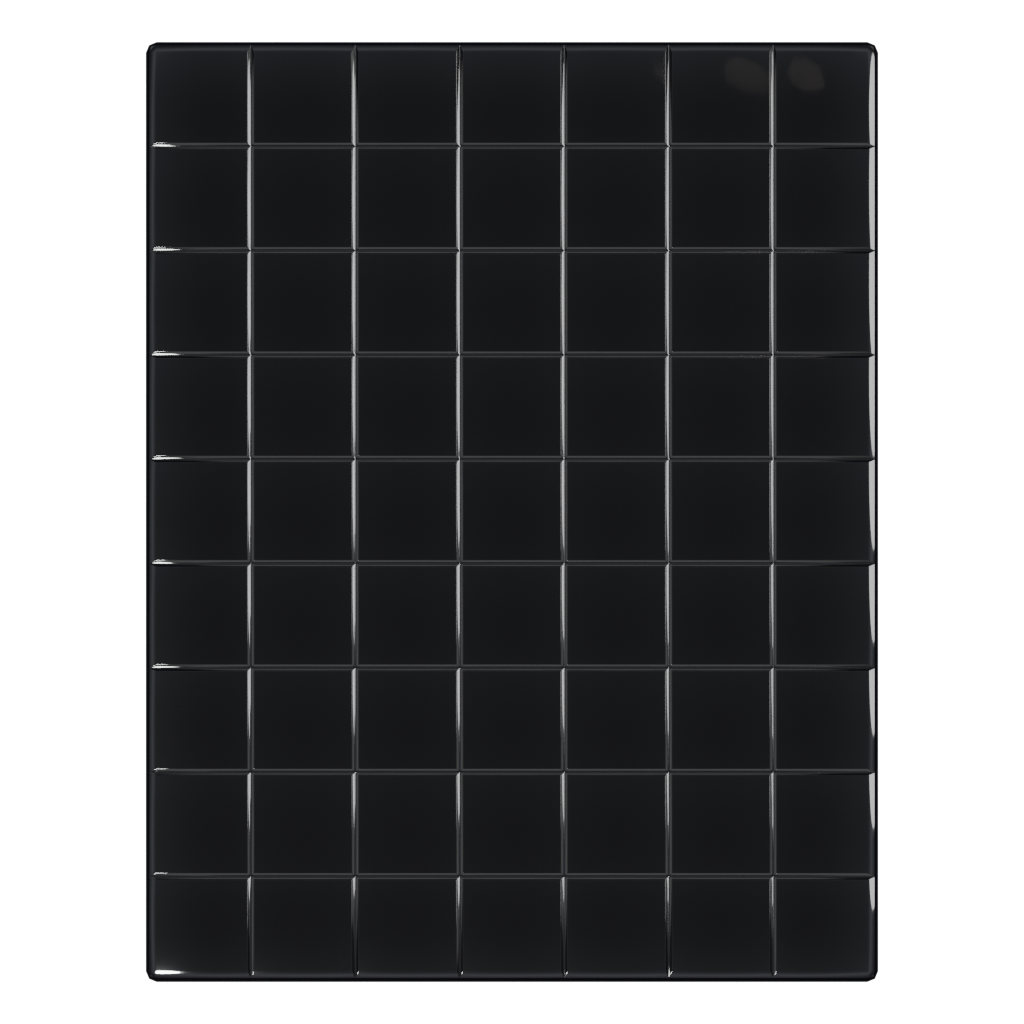
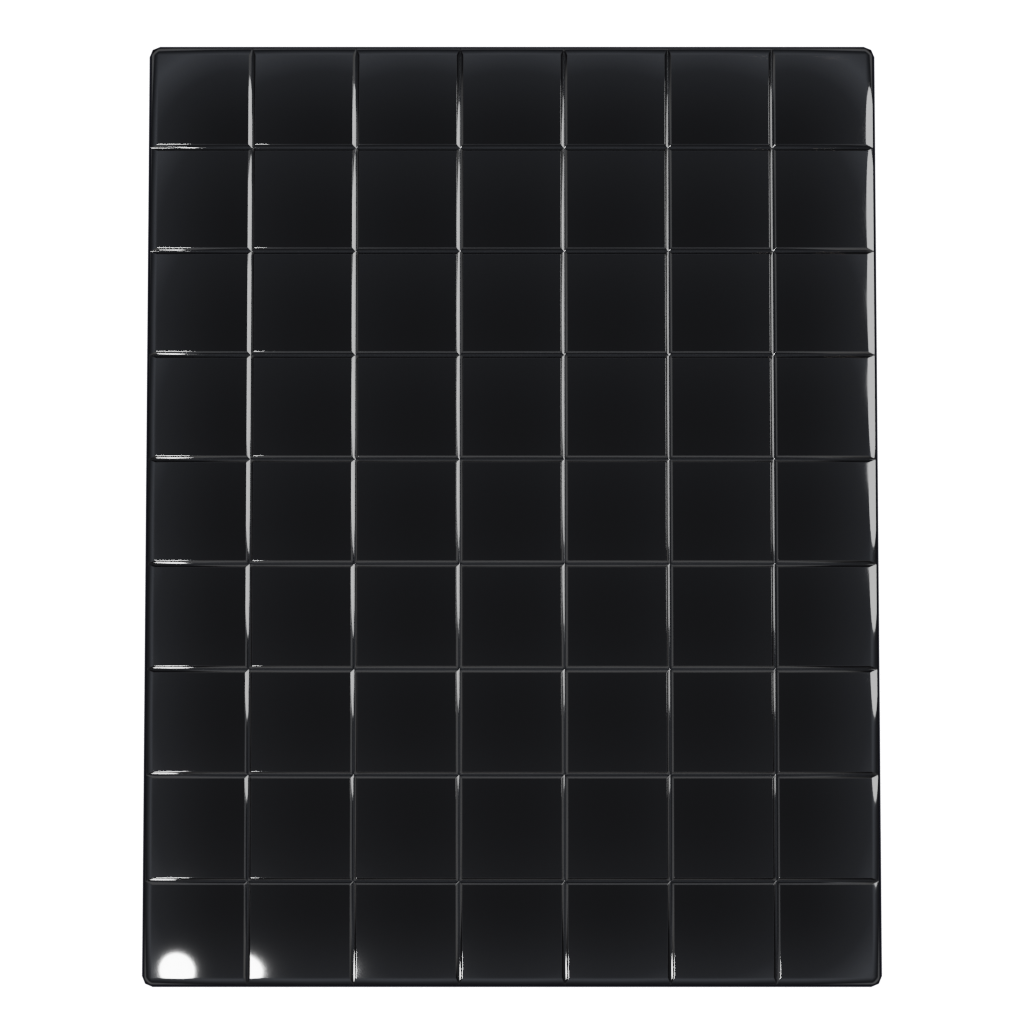
Render the board in perspective, like the view it was framed from
An orthographic camera cannot show what made the viewport look like a
physical sheet - near cells drawn larger than far ones. It is an 85mm
perspective now, long so the splay at the outer cells stays gentle.

The distance follows from the lens rather than being carried over:
under perspective the framing is the two together, not `ortho_scale`,
and at the ortho camera's 3.4 the board overflowed the frame
entirely.

The cost, as flagged: the render's squares no longer map one to one
onto the game's cell maths and drift from it toward the edges.

diff --git a/tools/blender/render_items.py b/tools/blender/render_items.py
@@ -3148,7 +3148,9 @@ BOARD_CHAMFER = 0.10
 # How far the studio's lamps are turned down for the board's own pass.
 BOARD_LIGHT_SCALE = 0.35
 # How far back the camera sits, off the view this was framed from.
-BOARD_CAM_REACH = 3.4
+# Long, so the perspective is gentle - a wide lens would splay the
+# outer cells badly. The camera's distance follows from it.
+BOARD_CAM_LENS = 85.0
 
 
 def board_glass_material():
@@ -3267,8 +3269,16 @@ def render_board():
             bpy.data.objects.remove(ob, do_unlink=True)
 
     data = bpy.data.cameras.get("BoardCam") or bpy.data.cameras.new("BoardCam")
-    data.type = 'ORTHO'
-    data.ortho_scale = BOARD_FRAME_CELLS * BOARD_CELL
+    # PERSPECTIVE, matching the view this was framed from.
+    #
+    # It costs the exact grid: under perspective the cells nearest the
+    # camera are drawn larger than the far ones, so the render's
+    # squares no longer map one to one onto the game's cell maths and
+    # drift from it toward the edges. That is the trade for the sheet
+    # reading as a physical thing rather than a diagram.
+    data.type = 'PERSP'
+    data.lens = BOARD_CAM_LENS
+    data.sensor_fit = 'AUTO'
     cam = bpy.data.objects.get("BoardCam")
     if cam is None:
         cam = bpy.data.objects.new("BoardCam", data)
@@ -3280,8 +3290,11 @@ def render_board():
     # at a distance of 3.4, with the lateral offset dropped so the
     # sheet sits in the middle of the frame instead of low and left.
     tilt = math.radians(BOARD_TILT_DEG)
-    cam.location = (0.0, -BOARD_CAM_REACH * math.sin(tilt),
-                    BOARD_CAM_REACH * math.cos(tilt))
+    # DISTANCE DERIVED FROM THE LENS. Under perspective the framing is
+    # set by the two together, not by `ortho_scale` - left at the
+    # ortho camera's 3.4 the board overflowed the frame entirely.
+    reach = (BOARD_FRAME_CELLS * BOARD_CELL) * BOARD_CAM_LENS / 36.0
+    cam.location = (0.0, -reach * math.sin(tilt), reach * math.cos(tilt))
     cam.rotation_euler = (tilt, 0.0, 0.0)
     bpy.context.scene.camera = cam
 
